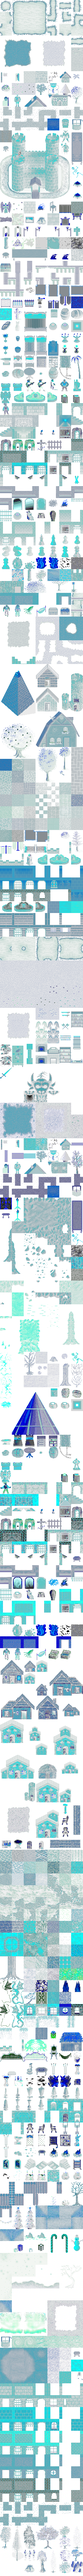
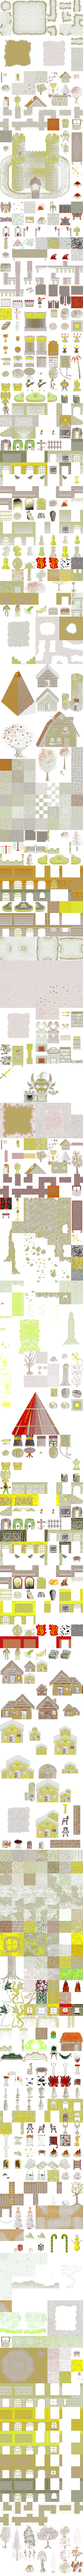
Fix: Correct BGR to RGB color channel conversion
Fixed critical color bug in BMP to PNG conversion where colors were
appearing with incorrect blue hues.

Issue:
- Windows BMP files store pixels in BGR (Blue-Green-Red) order
- PNG expects RGB (Red-Green-Blue) order
- Previous conversion copied pixel data directly without channel swapping
- Result: All images had blue/red channels swapped

Solution:
- Added BGR to RGB conversion loop in both convert-all.js and rsc-to-png.ts
- Swaps byte 0 (Blue) with byte 2 (Red) for each RGBA pixel
- Green (byte 1) and Alpha (byte 3) remain unchanged

Impact:
- Re-converted all 31 asset files with correct colors
- File sizes slightly increased: 24.14 MB → 24.54 MB (0.4 MB difference)
- Compression ratio: 64.1% (still excellent)
- All 31 files successful

Files Updated:
- packages/asset-pipeline/convert-all.js (added BGR->RGB conversion)
- packages/asset-pipeline/src/converters/rsc-to-png.ts (added BGR->RGB conversion)
- assets/extracted/*.png (all 31 PNGs re-converted with correct colors)
- assets/conversion-report.json (updated metrics)

🤖 Generated with Claude Code

diff --git a/packages/asset-pipeline/src/converters/rsc-to-png.ts b/packages/asset-pipeline/src/converters/rsc-to-png.ts
@@ -66,8 +66,17 @@ async function convertAllRsc(): Promise<ConversionResult[]> {
         height: bmpData.height
       });
 
-      // Copy pixel data
-      png.data = Buffer.from(bmpData.data);
+      // Convert BGR to RGB (BMP stores pixels as BGR, PNG expects RGB)
+      const pixelData = Buffer.from(bmpData.data);
+      for (let i = 0; i < pixelData.length; i += 4) {
+        // Swap red and blue channels
+        const temp = pixelData[i];           // Save blue
+        pixelData[i] = pixelData[i + 2];     // Blue = Red
+        pixelData[i + 2] = temp;             // Red = Blue
+        // Green (i+1) and Alpha (i+3) stay the same
+      }
+
+      png.data = pixelData;
 
       // Write PNG to file
       await new Promise<void>((resolve, reject) => {

diff --git a/packages/asset-pipeline/convert-all.js b/packages/asset-pipeline/convert-all.js
@@ -59,8 +59,17 @@ async function convertAllRsc() {
         height: bmpData.height
       });
 
-      // Copy pixel data
-      png.data = Buffer.from(bmpData.data);
+      // Convert BGR to RGB (BMP stores pixels as BGR, PNG expects RGB)
+      const pixelData = Buffer.from(bmpData.data);
+      for (let i = 0; i < pixelData.length; i += 4) {
+        // Swap red and blue channels
+        const temp = pixelData[i];     // Save blue
+        pixelData[i] = pixelData[i + 2];     // Blue = Red
+        pixelData[i + 2] = temp;             // Red = Blue
+        // Green (i+1) and Alpha (i+3) stay the same
+      }
+
+      png.data = pixelData;
 
       // Write PNG to file
       await new Promise((resolve, reject) => {
